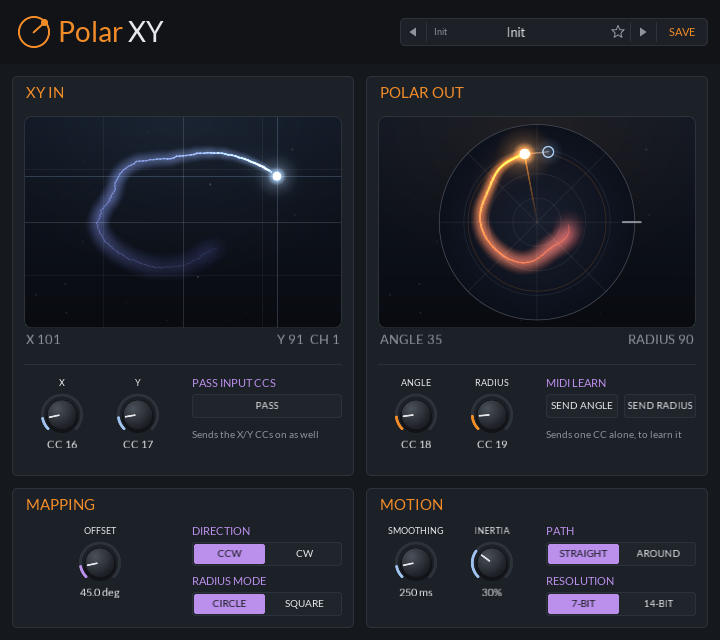
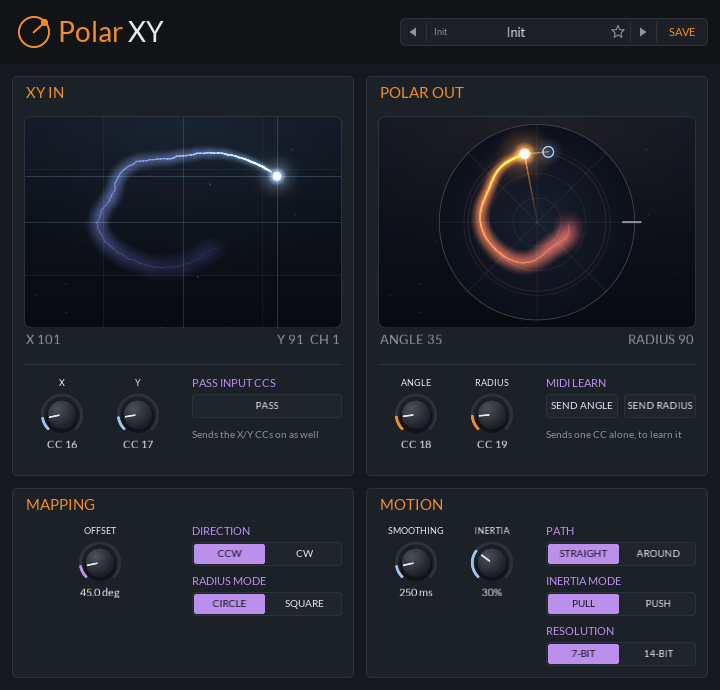
Polar XY: Inertia Mode, with Push where only the controller's movement moves the Orb (#185)
* Polar XY: Inertia coasts on when the controller stops, and never sticks in the middle

With Path set to Around, Inertia's spring swung the radius below zero and the output
clamped it to the centre, where it sat until the swing came back. A negative radius is
now drawn through the centre and out the other side.

And when the controller stops (or the pad is let go), the Orb no longer springs back to
it: the follower tracks the controller's speed, and once it holds still for 0.1 s the
target carries on at that speed, slowing over a couple of seconds at 100% and bouncing
off the edge, with the output still chasing it. It rests where it runs out of speed. A
jump from rest carries no speed, so it settles on the spot as before.

Claude-Session: https://claude.ai/code/session_01FGswf7jjFb1qTSTKomvWou

* Polar XY: Inertia Mode, with Push where only the controller's movement moves the Orb

A new Inertia Mode setting (INERTIA MODE on the panel, under PATH). Pull is the
existing behaviour: the Orb is drawn to where the controller is. In Push, where the
controller is plays no part: while it moves, the Orb's speed is drawn to the
controller's (slower the heavier the Inertia), and once it holds still the Orb only
coasts and slows with friction, bouncing off the edge and resting wherever it stops.
A move after a pause counts as made over the 0.1 s hold, so even a jump nudges it.

The param is appended, so state goes to version 5 and older state loads it as Pull.
[…]

diff --git a/plugins/polar-xy/src/motion.h b/plugins/polar-xy/src/motion.h
@@ -16,6 +16,9 @@ struct MotionSettings {
    // false: moves in a straight line across the pad. true: angle and radius move on their own, so
    // the output goes around the circle and keeps its spin (a whirl carries on past where it stopped).
    bool around = false;
+   // How Inertia follows. false (pull): the output is drawn to where the controller is. true (push):
+   // only the controller's movement pushes it, so a controller held still leaves it coasting.
+   bool push = false;
 
    bool active() const { return smoothing > 0.0 || inertia > 0.0; }
 };
@@ -78,7 +81,10 @@ public:
       // The controller's speed, from how far it went since its last move, a little smoothed as the
       // moves arrive unevenly. A move after a pause starts from rest.
       const double a = still_ < kCoastHold ? 1.0 - std::exp(-still_ / 0.05) : 0.0;
+      // Push takes a move after a pause as made over the hold, so even a jump gives it a nudge.
+      fresh_ = still_ >= kCoastHold;
       for (int i = 0; i < 2; ++i) {
+         kick_[i] = fresh_ ? (t[i] - real_[i]) / kCoastHold : 0.0;
          drift_[i] = still_ < kCoastHold ? drift_[i] : 0.0;
          if (still_ > 0.0)
             drift_[i] += a * ((t[i] - real_[i]) / still_ - drift_[i]);
@@ -136,6 +142,8 @@ public:
          land();
          return false;
       }
+      if (m.push && m.inertia > 0.0)
+         return pushed(dt, m);
       if (m.inertia > 0.0)
          coast(dt, m);
       else
@@ -175,6 +183,37 @@ public:
    }
 
 private:
+   // Push: the output's speed is drawn to the controller's while it moves (slower the heavier it
+   // is), and only slows with friction while it holds still. Where the controller is plays no part.
+   bool pushed(double dt, const MotionSettings &m) {
+      still_ += dt;
+      const bool driven = still_ < kCoastHold;
+      const double tau = coastTime(m.inertia);
+      const double take = 1.0 - std::exp(-dt * 2.0 * kPi / inertiaPeriod(m.inertia));
+      const double drag = std::exp(-dt / tau);
+      for (int i = 0; i < 2; ++i) {
+         const double speed = fresh_ ? kick_[i] : drift_[i];
+         vel_[i] = driven ? vel_[i] + take * (speed - vel_[i]) : vel_[i] * drag;
+         pos_[i] += vel_[i] * dt;
+      }
+      // Through the centre in around, the radius comes out the other side, still a radius.
+      if (around_ && pos_[1] < 0.0) {
+         pos_[0] += kPi;
+         pos_[1] = -pos_[1];
+         vel_[1] = -vel_[1];
+      }
+      for (int i = around_ ? 1 : 0; i < 2; ++i)
+         if (std::abs(pos_[i]) > 1.0 && pos_[i] * vel_[i] > 0.0)
+            vel_[i] *= -kCoastBounce;
+      if (driven || std::abs(vel_[0]) * tau > 1e-3 || std::abs(vel_[1]) * tau > 1e-3)
+         return true;
+      // At rest: wherever it got to is where it stays, until the controller moves again.
+      double x, y;
+      toPad(pos_, x, y);
+      place(std::clamp(x, -1.0, 1.0), std::clamp(y, -1.0, 1.0));
+      return false;
+   }
+
    bool coasting() const { return still_ >= kCoastHold; }
 
    // Once the controller has stopped, the target drifts on at its speed, slowing with friction and
@@ -238,6 +277,8 @@ private:
    double tx_ = 0.0, ty_ = 0.0; // the target on the pad
    double rx_ = 0.0, ry_ = 0.0; // the controller on the pad
    double still_ = 0.0;         // seconds since the controller last moved
+   bool fresh_ = false;         // its last move came after a pause: kick_ is its speed, for push
+   double kick_[2] = {};
    // The target, the controller (the target's start when it coasts) and its speed, and the output.
    double target_[2] = {}, real_[2] = {}, drift_[2] = {}, smooth_[2] = {}, pos_[2] = {}, vel_[2] = {};
 };

diff --git a/plugins/polar-xy/tests/test_plugin.cpp b/plugins/polar-xy/tests/test_plugin.cpp
@@ -176,6 +176,65 @@ void coastTests() {
    double x, y;
    j.position(x, y);
    JCLAP_CHECK(!j.moving() && x == 0.0 && y == 1.0);
+
+   // Push: only the controller's movement moves it. A move right carries the output on right after
+   // the controller stops, and it comes to rest without being drawn back to where the controller is.
+   m.push = true;
+   m.around = false;
+   m.inertia = 0.3;
+   jclap::Follower p;
+   p.place(-0.5, 0.0);
+   for (int i = 1; i <= 15; ++i) {
+      p.follow(-0.5 + 0.5 * i / 15.0, 0.0);
+      run(p, 0.02, centred);
+   }
+   double released, py;
+   p.position(released, py);
+   double last = released, back = 0.0;
+   for (double t = 0.0; t < 30.0 && p.moving(); t += dt) {
+      p.step(dt, m);
+      double px;
+      p.position(px, py);
+      back = std::max(back, last - px);
+      last = px;
+   }
+   JCLAP_CHECK(!p.moving());
+   JCLAP_CHECK(last > released + 0.05);
+   JCLAP_CHECK(std::abs(last) > 0.01); // not where the controller stopped
+   JCLAP_CHECK(back < 1e-9);
+   // Held still, the controller leaves it where it is.
+   double sx, sy;
+   p.position(sx, sy);
+   run(p, 1.0, centred);
+   p.position(x, y);
+   JCLAP_CHECK(x == sx && y == sy);
+
+   // A jump after a pause still nudges it that way, but doesn't take it all the way there.
+   p.follow(1.0, 0.0);
+   run(p, 30.0, centred);
+   p.position(x, y);
+   JCLAP_CHECK(!p.moving() && x > sx + 0.05 && x < 1.0);
+
+   // Around, pushed in through the middle: out the other side, never stuck there.
+   m.around = true;
+   m.inertia = 1.0;
+   jclap::Follower q;
+   q.setAround(true);
+   q.place(1.0, 0.0);
+   centred = 0.0;
+   for (int i = 1; i <= 15; ++i) {
+      q.follow(1.0 - 0.8 * i / 15.0, 0.0);
+      run(q, 0.02, centred);
+   }
+   minX = 1.0;
+   for (double t = 0.0; t < 30.0 && q.moving(); t += dt) {
+      q.step(dt, m);
+      q.position(x, y);
+      minX = std::min(minX, x);
+      centred += std::hypot(x, y) < jclap::kDeadZone ? dt : 0.0;
+   }
+   JCLAP_CHECK(minX < -0.2);
+   JCLAP_CHECK(centred < 0.2);
 }
 
 // The panel's XY pad: dragging it moves the shown channel like the controller, and holds that
@@ -522,6 +581,7 @@ int main() {
       // as defaults.
       h2.setParam(8, 500.0);
       h2.setParam(11, 1.0);
+      h2.setParam(12, 1.0);
       h2.process();
       const char magic[4] = {'J', 'C', 'O', 'P'};
       const uint32_t version = 1;
@@ -533,7 +593,7 @@ int main() {
       JCLAP_CHECK(state2->load(h2.plugin(), &is));
       JCLAP_CHECK(h2.paramValue(0) == 21.0 && h2.paramValue(4) == 45.0 && h2.paramValue(6) == 1.0);
       JCLAP_CHECK(h2.paramValue(8) == 0.0 && h2.paramValue(9) == 0.0 && h2.paramValue(10) == 0.0 &&
-                  h2.paramValue(11) == 0.0);
+                  h2.paramValue(11) == 0.0 && h2.paramValue(12) == 0.0);
       JCLAP_CHECK(h2.object<polar_xy::EditorHost>()->presetName().empty()); // no name before version 3
    }
 
@@ -544,6 +604,8 @@ int main() {
    JCLAP_CHECK(h.textToValue(8, "1.5 s", v) && v == 1500.0);
    JCLAP_CHECK(h.textToValue(8, "80ms", v) && v == 80.0);
    JCLAP_CHECK(h.textToValue(10, "around", v) && v == 1.0);
+   JCLAP_CHECK(h.paramText(12, 1.0) == "Push");
+   JCLAP_CHECK(h.textToValue(12, "pull", v) && v == 0.0);
 
    // The factory bank is one Init with every param at its default.
    const auto &factory = polar_xy::factoryPresets();

diff --git a/plugins/polar-xy/src/editor.cpp b/plugins/polar-xy/src/editor.cpp
@@ -1,6 +1,6 @@
 // Polar XY's panel, in the MicroMonsta 2 style: a title bar, then the XY input and the polar output
 // side by side, each a small night sky with its CCs beneath, and the mapping and motion settings
-// below them, all on a 720 x 640 design grid scaled to the window.
+// below them, all on a 720 x 690 design grid scaled to the window.
 //
 // Both skies animate at the display's rate, about 60 frames a second, on the main thread. The input
 // dot and the output orb shed ink as they move, which drifts, spreads and fades behind them like the
@@ -41,7 +41,7 @@ namespace {
 namespace ui = jclap::ui;
 
 constexpr float kDesignWidth = 720.0f;
-constexpr float kDesignHeight = 640.0f;
+constexpr float kDesignHeight = 690.0f;
 constexpr float kHeaderHeight = 64.0f;
 // Every knob gets a cell this size, so they all come out alike.
 constexpr float kKnobWidth = 76.0f;
@@ -460,8 +460,8 @@ public:
       // happens in between.
       add<ui::Section>({12, 76, 342, 400}, "XY IN");
       add<ui::Section>({366, 76, 342, 400}, "POLAR OUT");
-      add<ui::Section>({12, 488, 342, 140}, "MAPPING");
-      add<ui::Section>({366, 488, 342, 140}, "MOTION");
+      add<ui::Section>({12, 488, 342, 190}, "MAPPING");
+      add<ui::Section>({366, 488, 342, 190}, "MOTION");
 
       // Live views: what comes in on the X/Y CCs, and the angle/radius that goes out. Dragging the
       // XY pad moves the input itself, holding off the controller until the mouse lets go.
@@ -507,7 +507,8 @@ public:
       knob(kParamSmoothing, "SMOOTHING", kBlue, 378, row, 10.0);
       knob(kParamInertia, "INERTIA", kBlue, 454, row, 1.0);
       choice(kParamMotionPath, "PATH", {"STRAIGHT", "AROUND"}, 546, row);
-      choice(kParamResolution, "RESOLUTION", {"7-BIT", "14-BIT"}, 546, row + 50);
+      choice(kParamInertiaMode, "INERTIA MODE", {"PULL", "PUSH"}, 546, row + 50);
+      choice(kParamResolution, "RESOLUTION", {"7-BIT", "14-BIT"}, 546, row + 100);
 
       // Shown when two inputs or two outputs share a CC, which the plugin won't convert.
       warning_ = &add<ui::Label>({380, 48, 328, 14}, "", kOrange, visage::Font::kRight, 0.7f);

diff --git a/plugins/polar-xy/src/params.h b/plugins/polar-xy/src/params.h
@@ -24,6 +24,7 @@ enum ParamId : clap_id {
    kParamInertia,
    kParamMotionPath,
    kParamResolution,
+   kParamInertiaMode,
    kParamCount
 };
 
@@ -46,6 +47,7 @@ inline constexpr ParamInfo kParams[kParamCount] = {
    {"Inertia", 0, 100, 0, false},    // %
    {"Motion Path", 0, 1, 0, true},
    {"Output Resolution", 0, 1, 0, true},
+   {"Inertia Mode", 0, 1, 0, true},
 };
 
 // Labels for the two-state params, off first.
@@ -54,6 +56,7 @@ inline const char *const kRadiusModeLabels[] = {"Clamp to circle", "Fill square"
 inline const char *const kOnOffLabels[] = {"Off", "On"};
 inline const char *const kMotionPathLabels[] = {"Straight", "Around"};
 inline const char *const kResolutionLabels[] = {"7-bit", "14-bit"};
+inline const char *const kInertiaModeLabels[] = {"Pull", "Push"};
 
 // 14-bit output sends each value's LSB on its CC + 32, so it needs both output CCs below 32; on
 // higher ones the output stays 7-bit.
@@ -71,6 +74,8 @@ inline const char *const *choiceLabels(clap_id id) {
       return kMotionPathLabels;
    case kParamResolution:
       return kResolutionLabels;
+   case kParamInertiaMode:
+      return kInertiaModeLabels;
    default:
       return nullptr;
    }

diff --git a/plugins/polar-xy/src/plugin.cpp b/plugins/polar-xy/src/plugin.cpp
@@ -54,9 +54,10 @@ struct Settings {
 
 // State layout: 4-byte magic, uint32 version, one double per parameter, then (from version 3) uint32
 // name length and the preset name. Version 1 had the params before Smoothing, versions 2 and 3 those
-// before Output Resolution; the ones they lack load as their defaults.
+// before Output Resolution, and version 4 those before Inertia Mode; the ones they lack load as their
+// defaults.
 constexpr char kStateMagic[4] = {'J', 'C', 'O', 'P'};
-constexpr uint32_t kStateVersion = 4;
+constexpr uint32_t kStateVersion = 5;
 
 struct StateHeader {
    char magic[4];
@@ -71,6 +72,8 @@ uint32_t savedParamCount(uint32_t version) {
    case 3:
       return kParamResolution;
    case 4:
+      return kParamInertiaMode;
+   case 5:
       return kParamCount;
    default:
       return 0;
@@ -375,6 +378,7 @@ private:
       m.smoothing = params_[kParamSmoothing].load() / 1000.0;
       m.inertia = params_[kParamInertia].load() / 100.0;
       m.around = intParam(kParamMotionPath) != 0;
+      m.push = intParam(kParamInertiaMode) != 0;
       return m;
    }
 

diff --git a/plugins/polar-xy/tools/screenshot.cpp b/plugins/polar-xy/tools/screenshot.cpp
@@ -103,7 +103,7 @@ int main(int argc, char **argv) {
       return 1;
    }
    const int width = argc > 3 ? std::atoi(argv[2]) : 720;
-   const int height = argc > 3 ? std::atoi(argv[3]) : 640;
+   const int height = argc > 3 ? std::atoi(argv[3]) : 690;
    DemoHost host;
    return polar_xy::renderScreenshot(host, width, height, argv[1], kSeconds,
                                      [&host](double dt) { host.advance(dt); })

diff --git a/plugins/polar-xy/README.md b/plugins/polar-xy/README.md
@@ -67,6 +67,11 @@ changes) until it arrives. Each channel moves on its own.
   the way the controller was going, slowing down (over a couple of seconds at 100%), and bounces off
   the edge. It settles wherever it runs out of speed, and the controller's next move picks it up from
   there. A jump from rest has no speed to carry, so it settles on the spot.
+- **Inertia Mode** (INERTIA MODE on the panel) picks how Inertia follows. *Pull*, as above, draws the
+  Orb to where the controller is. *Push* only lets the controller's movement move it: while the
+  controller moves, the Orb picks up its speed and direction (slower the heavier it is), and once it
+  holds still it has no say at all, so the Orb coasts on, slows to a stop and stays there. Where the
+  controller is doesn't matter, only how it's moving, so the Orb can end up anywhere on the pad.
 - **Motion Path** (PATH on the panel) picks what moves. *Straight* glides across the pad in X/Y, so going from one side to the
   other passes through the centre. *Around* moves the angle and radius on their own, so the Orb travels
   round the circle the short way. The angle keeps counting past a full turn, so stirring the controller
@@ -103,7 +108,7 @@ radius the plugin sent for that channel (a dash until both axes have arrived),
 with angle 0 marked by the tick on the right. Comparing the two shows what `Angle Offset` and
 `Direction` do. Under each view are its CCs: X and Y with Pass Input CCs, and angle and radius with
 the MIDI learn buttons. Below them, **MAPPING** holds Angle Offset, Direction and Radius Mode, and
-**MOTION** Smoothing, Inertia, Path and Resolution. Every setting is also a plain host parameter.
+**MOTION** Smoothing, Inertia, Path, Inertia Mode and Resolution. Every setting is also a plain host parameter.
 
 Both views are small night skies that move at the screen's rate. The input dot and the output orb
 leave a trail of ink that drifts and fades behind them, so you can see the path a glide took
@@ -145,4 +150,5 @@ favourites, and SAVE stores the current settings as your own preset. The factory
 | Smoothing | 0 ms | Glide time, up to 2 s |
 | Inertia | 0% | Weight: lag and overshoot |
 | Motion Path | Straight | Or Around, to move round the circle |
+| Inertia Mode | Pull | Or Push, where only the controller's movement moves the output |
 | Output Resolution | 7-bit | Or 14-bit (RESOLUTION on the panel): MSB on the output CC, LSB on CC + 32 |
